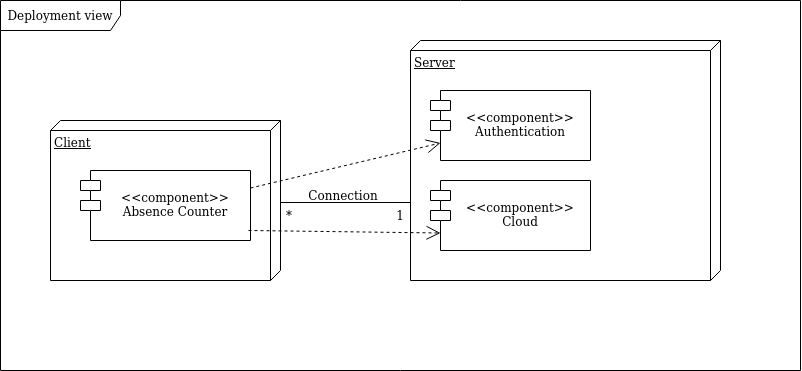
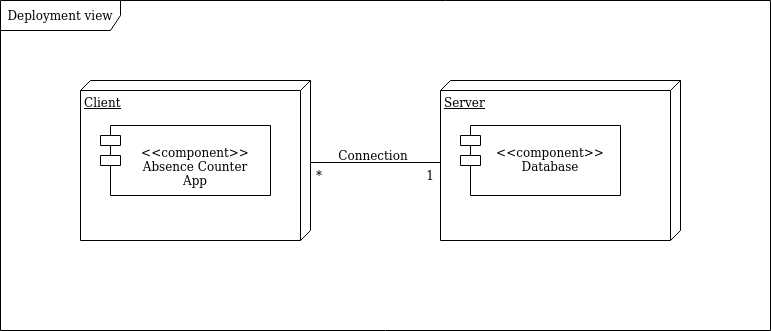
Add Physical architecture

diff --git a/docs/ArchitectureAndDesign.md b/docs/ArchitectureAndDesign.md
@@ -12,6 +12,9 @@
 
 ### Physical architecture
 
+In our app's physical architecture only 2 entities are featured: the server where the database with all the information required by the client; and the app itself, which the user interacts with.
+Regarding technologies, we are going to use Flutter (with the Dart programming language) for the frontend and Firebase for the backend.
+
 ![Deployment View](../images/deployment_view.png)
 
 ### Vertical prototype
